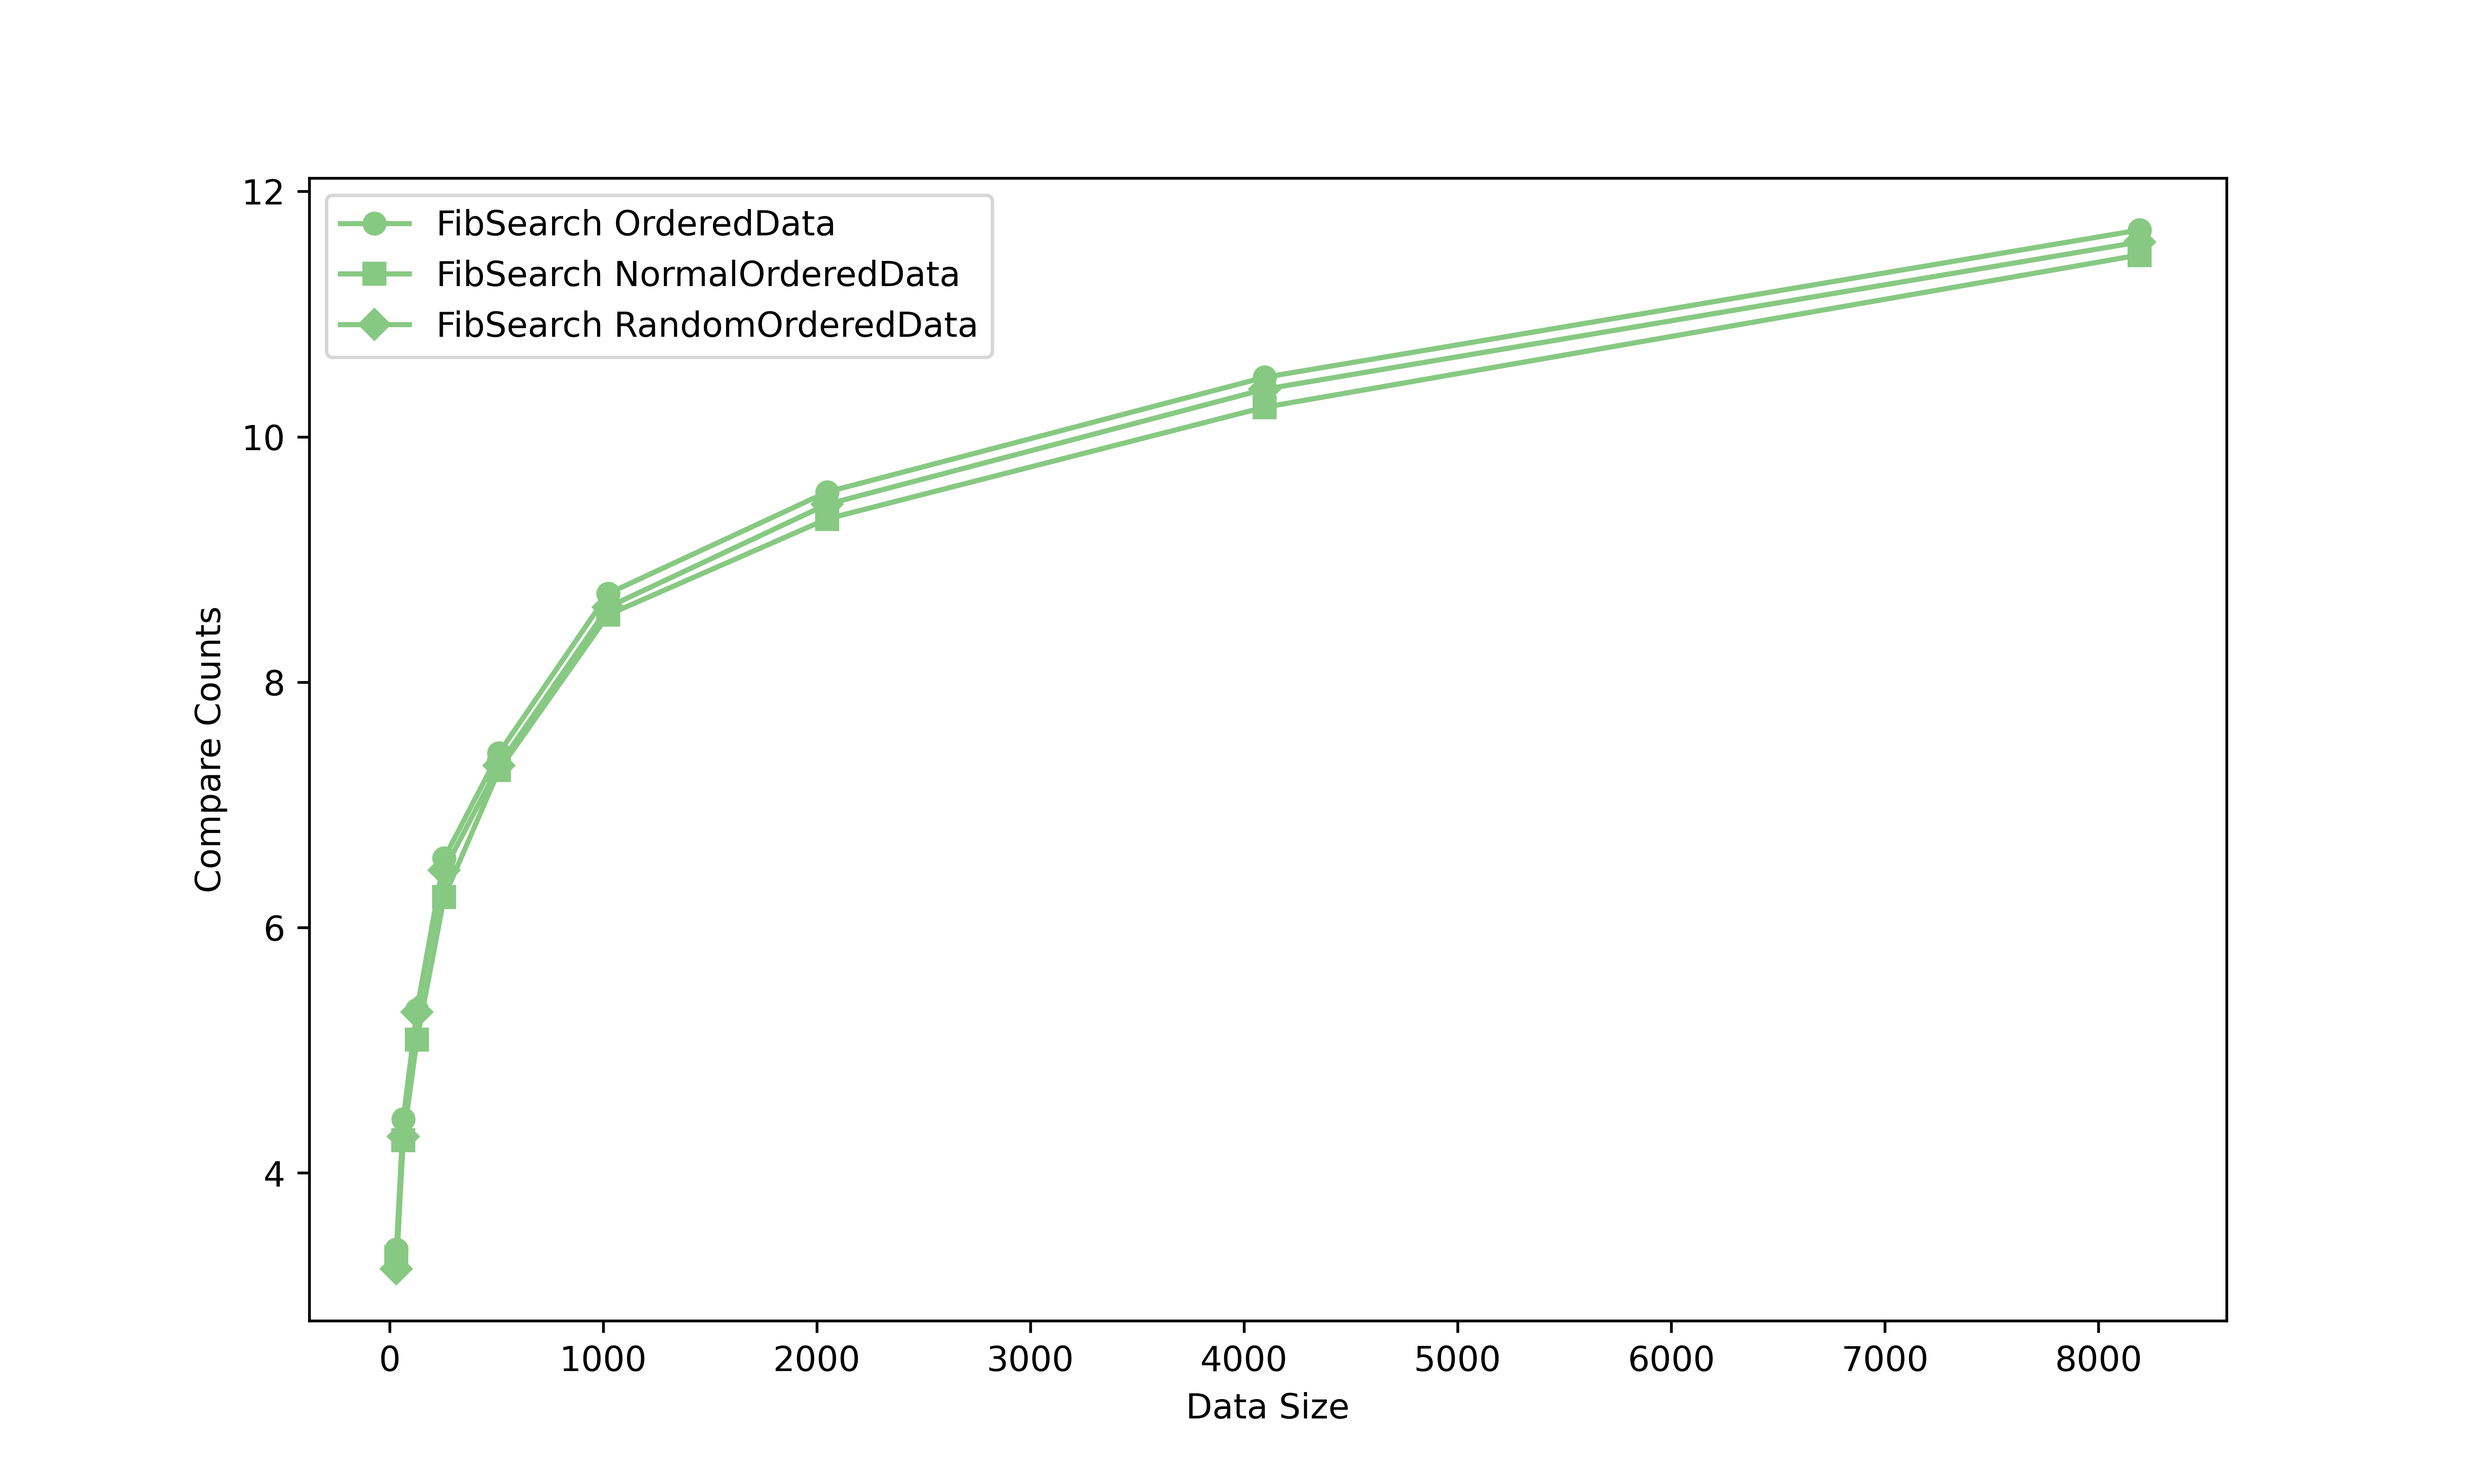
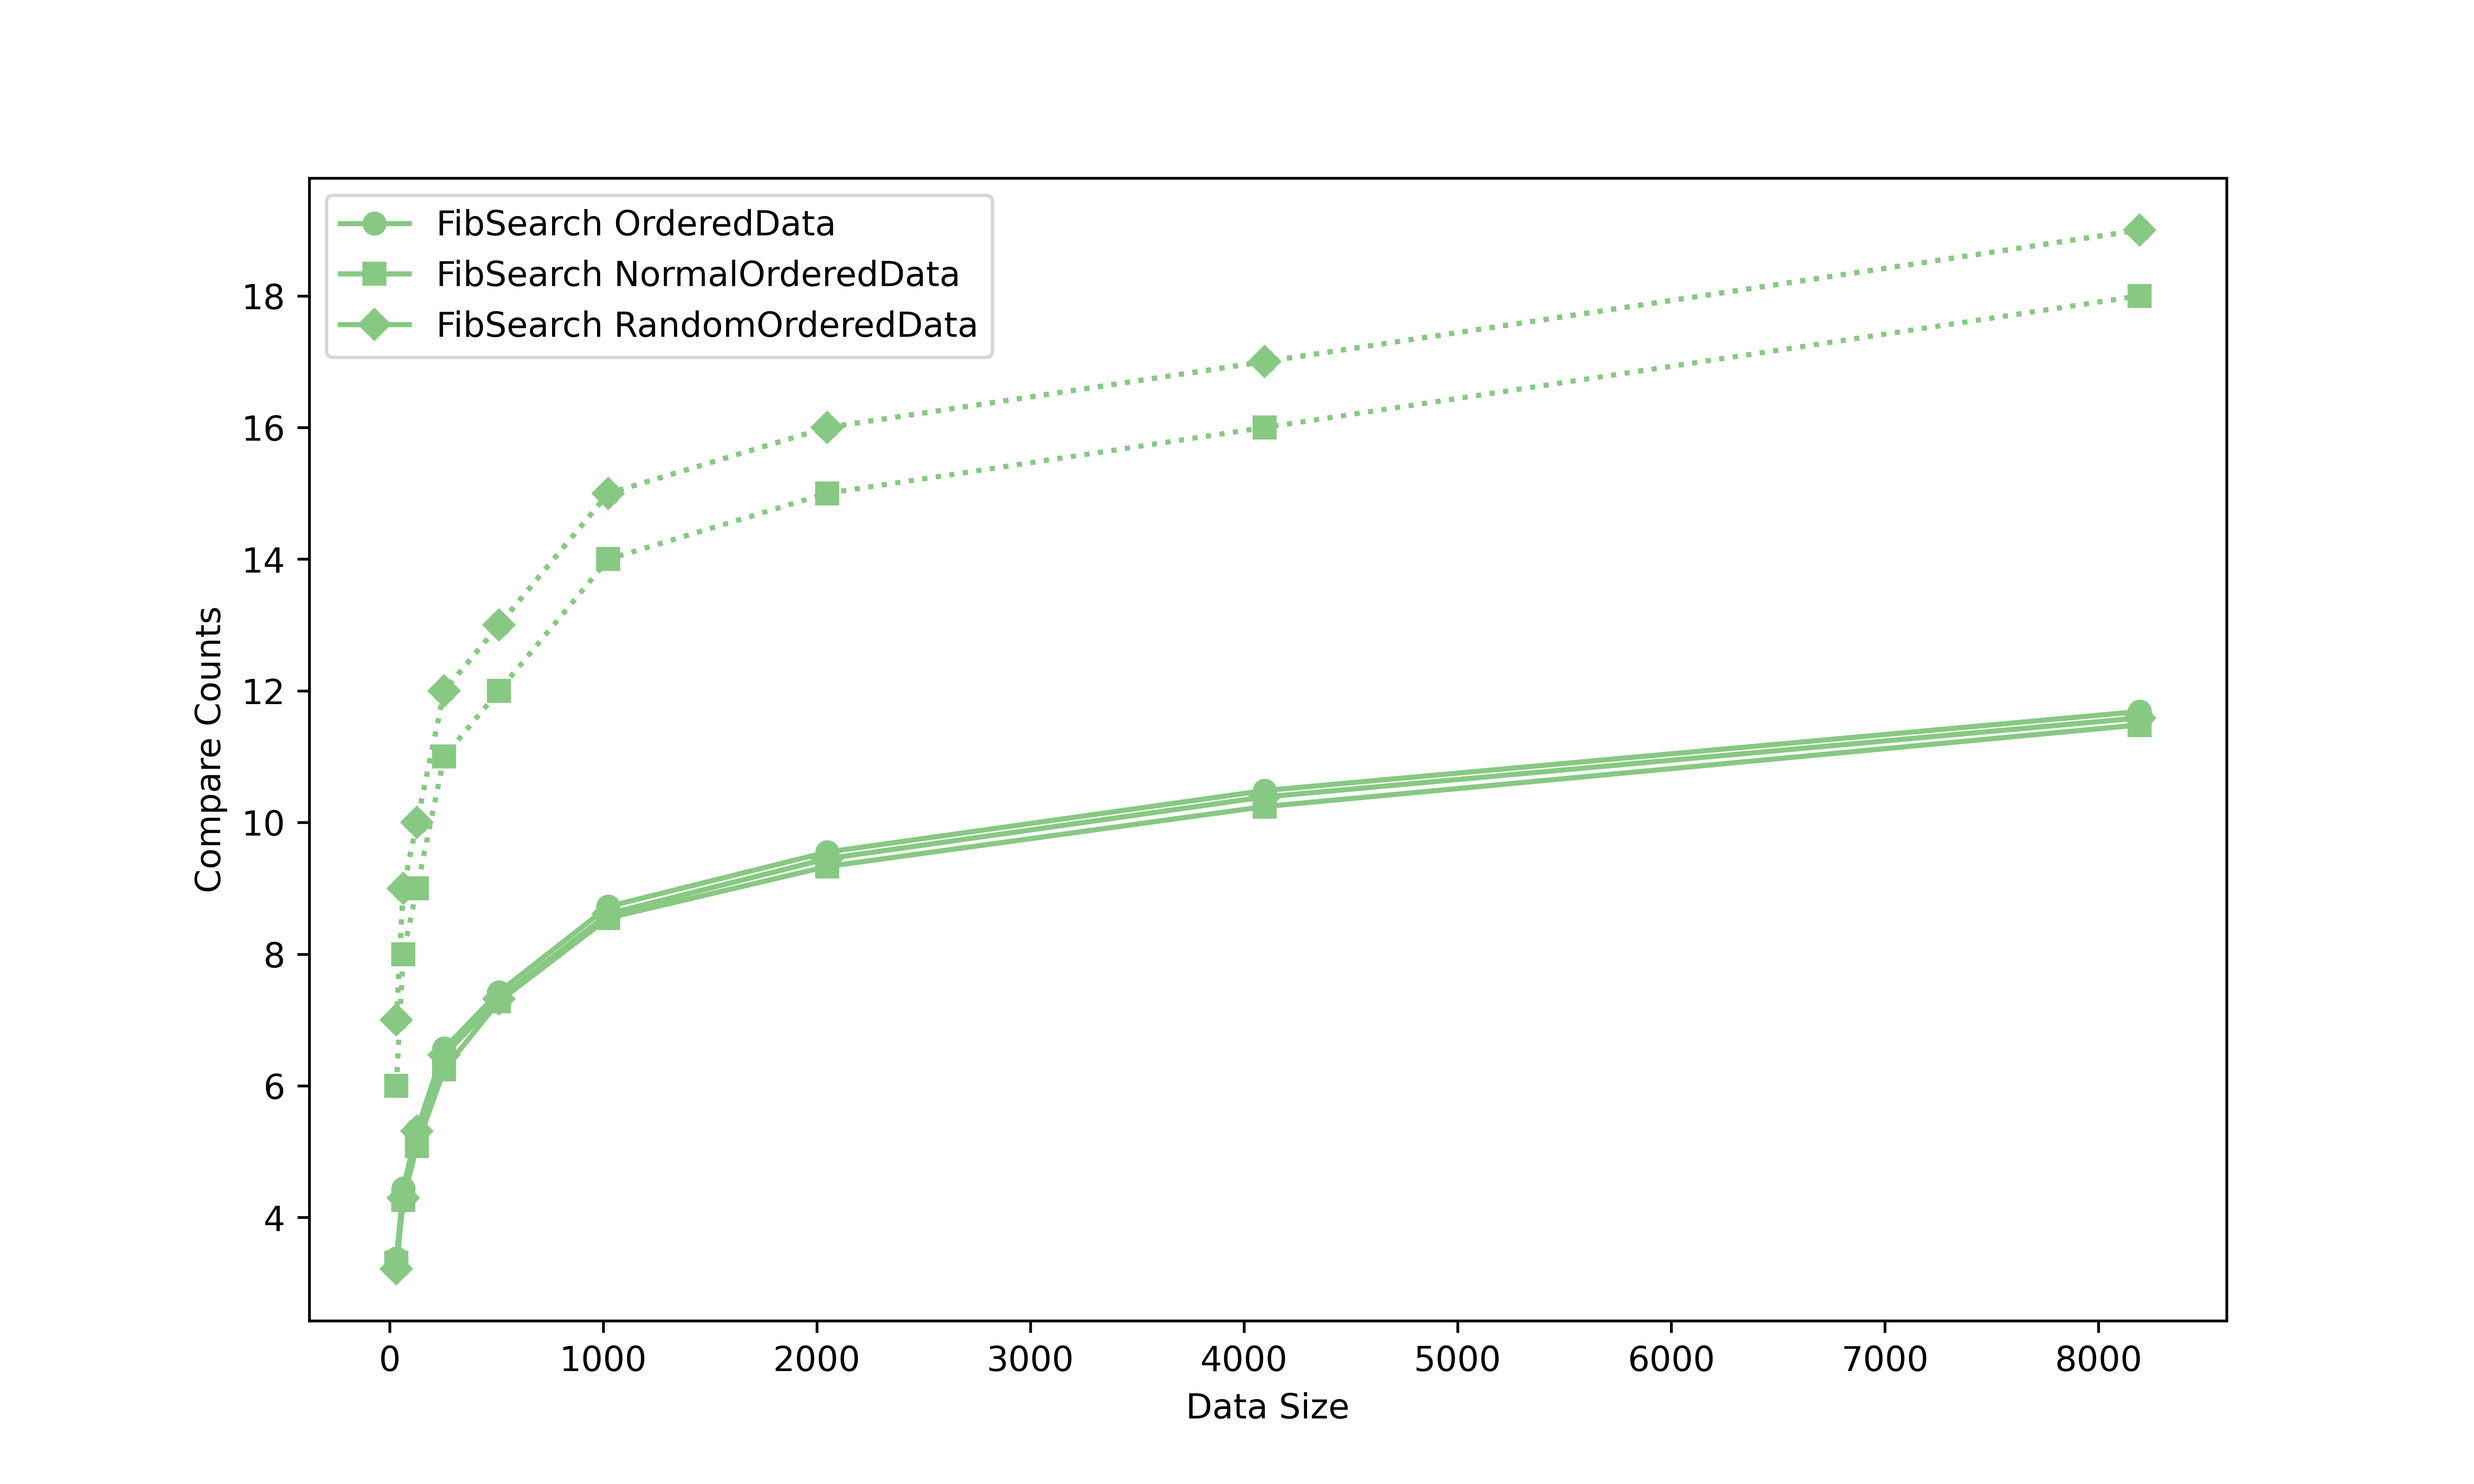
Update Worst Condition of Each Function

diff --git a/Week3/Src/Report/Cpp/main.cpp b/Week3/Src/Report/Cpp/main.cpp
@@ -6,7 +6,8 @@ using namespace std;
 
 int main()
 {
-    double ansdata[3][3][9][2] = {0}; // 算法 数据类型 数据规模 数据域(比较次数/时间)
+    double ansdata[3][3][9][2] = {0}; // 算法 数据类型 数据规模 数据域(内部数据平均比较次数/随机数据平均比较次数)
+    int worst[3][3][9] = {0};         // 最坏情况比较次数
     int ASL = 0;
     string DataName[3] = {{"OrderedData"},
                           {"NormalOrderedData"},
@@ -27,6 +28,9 @@ int main()
         double compare_sum_BS = 0;
         double compare_sum_FS = 0;
         double compare_sum_IS = 0;
+        int worst_compare_BS = 0;
+        int worst_compare_FS = 0;
+        int worst_compare_IS = 0;
         for (int j = 0; j < 9; j++)
         {
             int size = stoi(fsize[j]);
@@ -38,13 +42,25 @@ int main()
             file.close();
             for (int target = 0; target < 10 * size; target++)
             {
-                compare_sum_BS += BinarySearch(data, target, size).compare;
-                compare_sum_FS += FibSearch(data, target, size).compare;
-                compare_sum_IS += InterpolationSearch(data, target, size).compare;
+                int tmp;
+                tmp = BinarySearch(data, target, size).compare;
+                worst_compare_BS = tmp > worst_compare_BS ? tmp : worst_compare_BS;
+                compare_sum_BS += tmp;
+
+                tmp = FibSearch(data, target, size).compare;
+                worst_compare_FS = tmp > worst_compare_FS ? tmp : worst_compare_FS;
+                compare_sum_FS += tmp;
+
+                tmp = InterpolationSearch(data, target, size).compare;
+                worst_compare_IS = tmp > worst_compare_IS ? tmp : worst_compare_IS;
+                compare_sum_IS += tmp;
             }
             ansdata[0][i][j][1] = compare_sum_BS / size;
             ansdata[1][i][j][1] = compare_sum_FS / size;
             ansdata[2][i][j][1] = compare_sum_IS / size;
+            worst[0][i][j] = worst_compare_BS;
+            worst[1][i][j] = worst_compare_FS;
+            worst[2][i][j] = worst_compare_IS;
             compare_sum_BS = 0;
             compare_sum_FS = 0;
             compare_sum_IS = 0;
@@ -76,20 +92,45 @@ int main()
             }
         }
     }
+
+    for (int f = 0; f < 3; f++)
+    {
+        cout << "func" << f << endl;
+        for (int i = 0; i < 3; i++)
+        {
+            cout << "   " << DataName[i] << endl;
+            cout << "        ";
+            for (int j = 0; j < 9; j++)
+                cout << worst[f][i][j] << " ";
+            cout << endl;
+        }
+    }
+    // ofstream outfile;
+    // outfile.open("./../../../Data/file.txt", ios::out);
+    // for (int f = 0; f < 3; f++)
+    // {
+    //     for (int i = 0; i < 3; i++)
+    //     {
+    //         for (int d = 0; d < 2; d++)
+    //         {
+    //             for (int j = 0; j < 9; j++)
+    //             {
+    //                 outfile << ansdata[f][i][j][d] << " ";
+    //             }
+    //             outfile << "\n";
+    //         }
+    //     }
+    // }
+    // outfile.close();
     ofstream outfile;
-    outfile.open("./../../../Data/file.txt", ios::out);
+    outfile.open("./../../../Data/worst.txt", ios::out);
     for (int f = 0; f < 3; f++)
     {
         for (int i = 0; i < 3; i++)
         {
-            for (int d = 0; d < 2; d++)
-            {
-                for (int j = 0; j < 9; j++)
-                {
-                    outfile << ansdata[f][i][j][d] << " ";
-                }
-                outfile << "\n";
-            }
+            for (int j = 0; j < 9; j++)
+                outfile << worst[f][i][j] << " ";
+            outfile << endl;
         }
     }
     outfile.close();

diff --git a/Week3/Src/Report/Py/Analyse.py b/Week3/Src/Report/Py/Analyse.py
@@ -6,12 +6,18 @@ import sys
 src_path = sys.path[0]
 relative_path = "../../../Data"
 data = ""
+worst = ""
 with open("/".join([src_path, relative_path, "file.txt"]), 'r') as file:
     data = file.read()
+with open("/".join([src_path, relative_path, "worst.txt"]), 'r') as file:
+    worst = file.read()
 
 data = np.array(list(map(float, data.split())))
 data = data.reshape(3, 3, 2, 9)
 print(data)
+worst = np.array(list(map(int, worst.split())))
+worst = worst.reshape(3, 3, 9)
+print(worst)
 
 size = [pow(2, i + 5) for i in range(9)]
 DataName = ["OrderedData", "NormalOrderedData", "RandomOrderedData"]
@@ -23,7 +29,7 @@ for j in range(2):
     plt.figure(figsize=(10, 6))
     for f in range(3):
         for i in range(3):
-            plt.plot(size, data[f][i][1], style[i], color=color[f], label=FuncName[f] +
+            plt.plot(size, data[f][i][j], style[i], color=color[f], label=FuncName[f] +
                      " " + DataName[i])
     plt.xlabel("Data Size")  # 横坐标名字
     plt.ylabel("Compare Counts")  # 纵坐标名字
@@ -38,6 +44,8 @@ for f in range(3):
         for i in range(3):
             plt.plot(size, data[f][i][j], style[i], color=color[f], label=FuncName[f] +
                      " " + DataName[i])
+            if j == 0:
+                plt.plot(size, worst[f][i], style[i][0]+':', color=color[f])
         plt.xlabel("Data Size")  # 横坐标名字
         plt.ylabel("Compare Counts")  # 纵坐标名字
         plt.legend(loc="best")  # 图例
@@ -51,6 +59,8 @@ for i in range(3):
         for f in range(3):
             plt.plot(size, data[f][i][j], style[i], color=color[f], label=FuncName[f] +
                      " " + DataName[i])
+            if j == 0:
+                plt.plot(size, worst[f][i], style[i][0]+':', color=color[f])
         plt.xlabel("Data Size")  # 横坐标名字
         plt.ylabel("Compare Counts")  # 纵坐标名字
         plt.legend(loc="best")  # 图例
